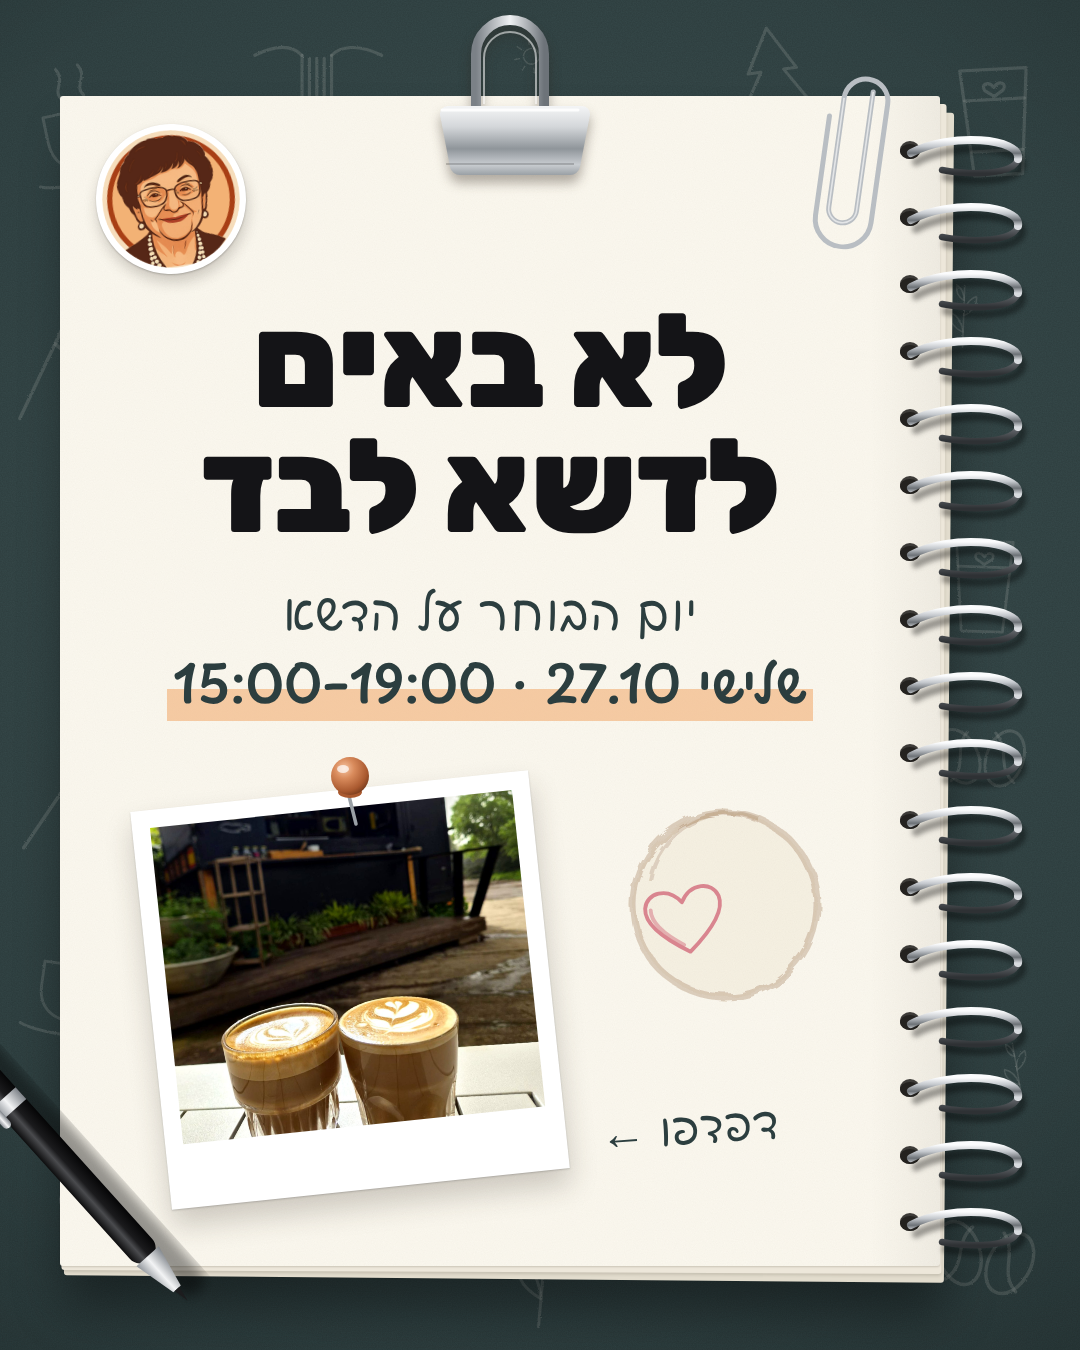
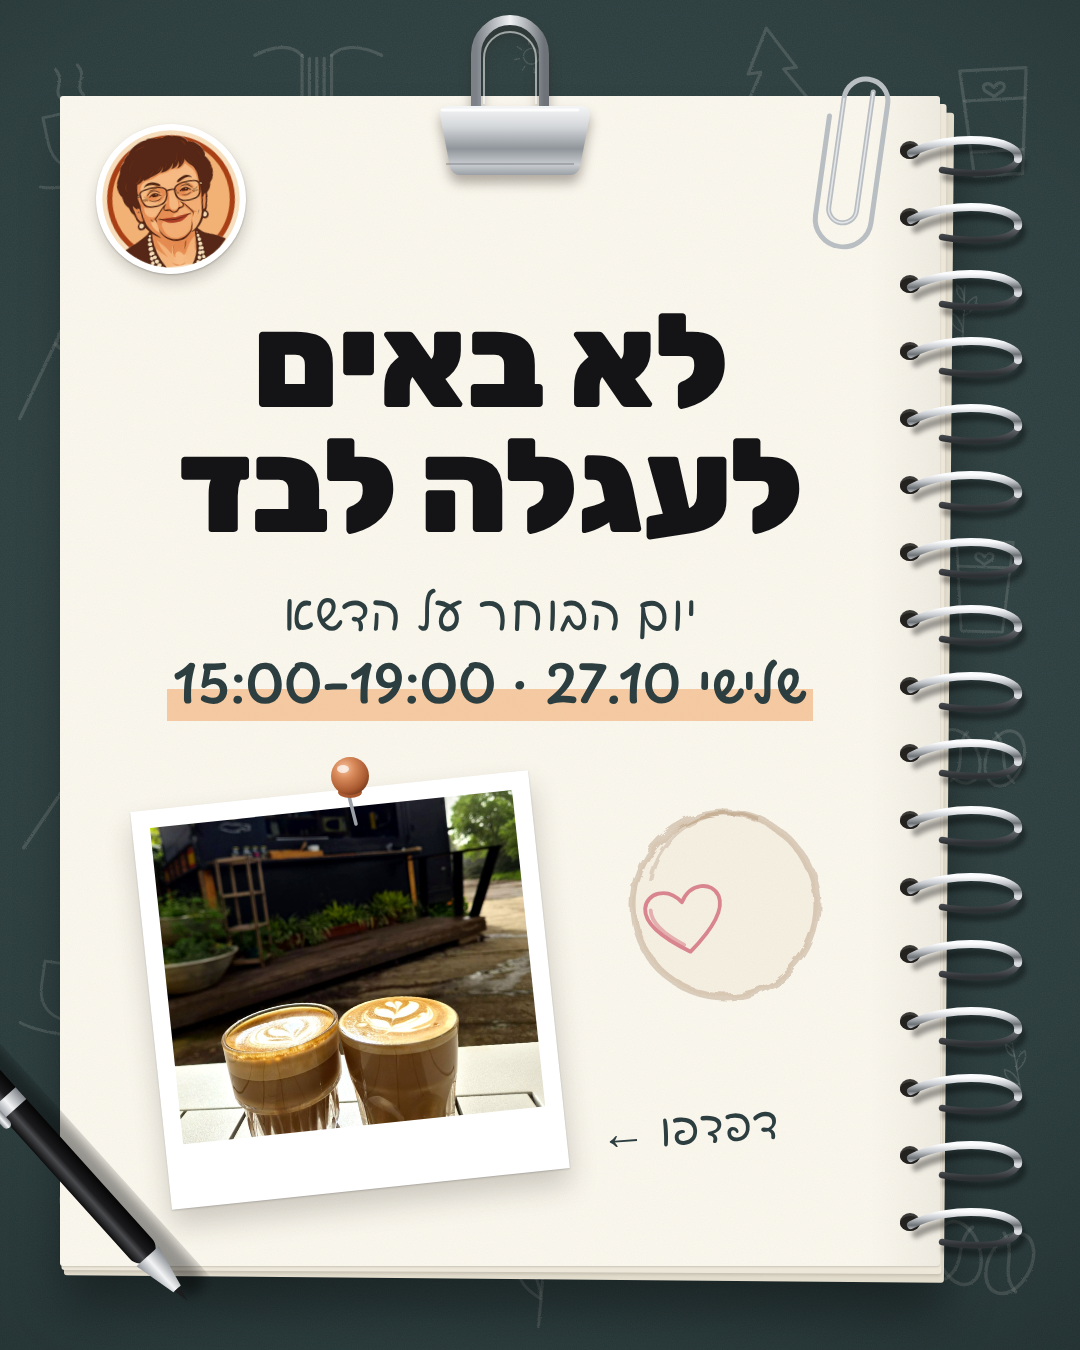
Election-day carousel cover: לא באים לעגלה לבד
Claude-Session: https://claude.ai/code/session_013haAdpctRrk92YNsAEXH9q

Changed region(s): [[0.1528, 0.3111, 0.7639, 0.4044]]

diff --git a/toolkit/templates/80-nb-cover.html b/toolkit/templates/80-nb-cover.html
@@ -10,7 +10,7 @@
 .ink.c{left:600px;top:1100px;font-size:46px;transform:rotate(-4deg)}
 </style></head><body data-clip>
 <div class="sticker"><img src="../assets/logo.png" alt=""></div>
-<div class="h">לא באים<br>לדשא לבד</div>
+<div class="h">לא באים<br>לעגלה לבד</div>
 <div class="ink a">יום הבוחר על הדשא</div>
 <div class="ink b"><span class="hl">שלישי <span class="t">27.10</span> · <span class="t">15:00–19:00</span></span></div>
 <div class="pol"><img src="../assets/photos/hero.jpg" style="object-position:50% 75%" alt=""></div>
